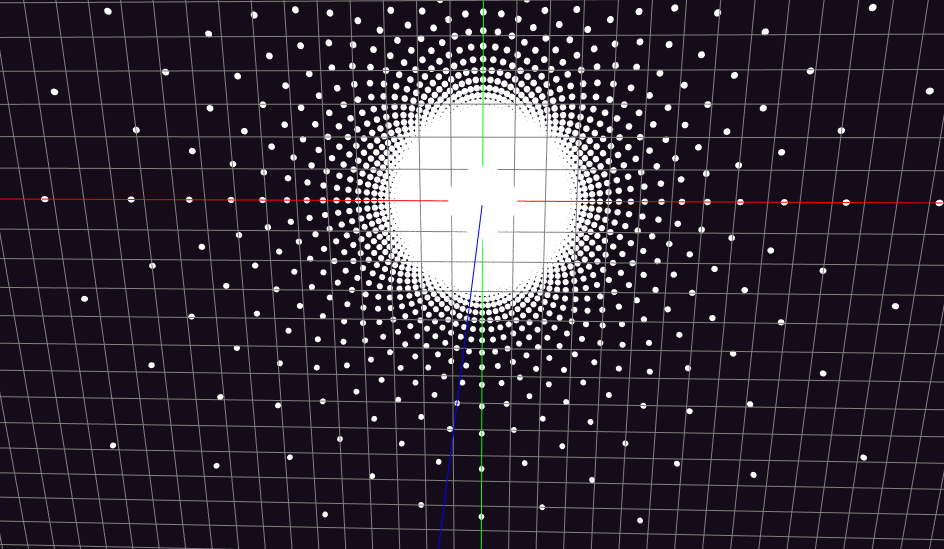
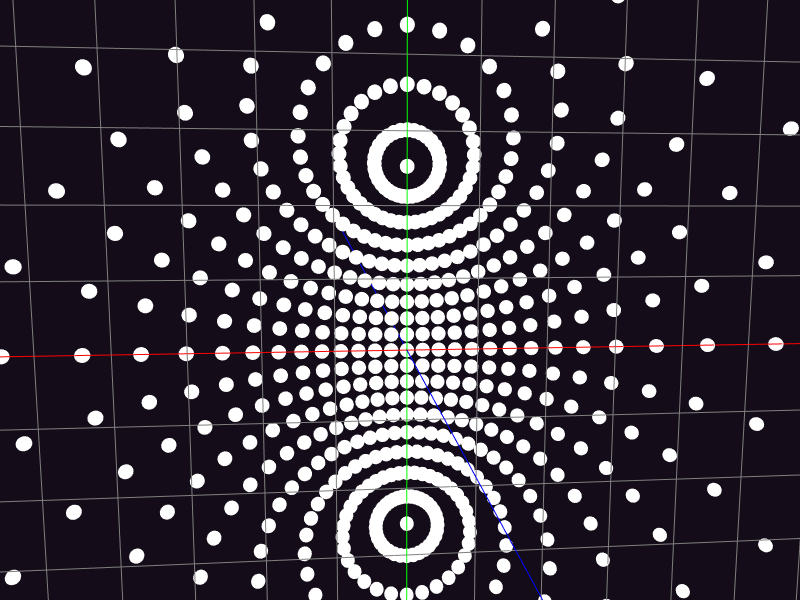
added Track.hpp, for basic change detection

diff --git a/src/World/Components/Transform3DComponent.hpp b/src/World/Components/Transform3DComponent.hpp
@@ -1,6 +1,7 @@
 #pragma once
 
 #include "Core/OuterCore/ECS/Component.hpp"
+#include "Core/OuterCore/Track.hpp"
 #include "Math/Matrix/Matrix4.hpp"
 #include "Math/Quaternion/Quaternion.hpp"
 
@@ -9,43 +10,37 @@ namespace N
 //
 struct Transform3DComponent : Component
 {
-    M::Vector3 Position = M::Vector3::Zero;
-    M::Quaternion Rotation = M::Quaternion::Identity;
-    M::Vector3 Scale = M::Vector3::One;
+    Track<M::Vector3> Position = M::Vector3::Zero;
+    Track<M::Quaternion> Rotation = M::Quaternion::Identity;
+    Track<M::Vector3> Scale = M::Vector3::One;
 
     bool InheritTransform = true;
 
   private:
-    M::Vector3 DirtyPos = M::Vector3::Zero;
-    M::Vector3 DirtyScale = M::Vector3::One;
-    M::Quaternion DirtyRotation = M::Quaternion::Identity;
-    M::Matrix4 DirtyModelMatrix = M::Matrix4::Identity;
-    M::Matrix3 DirtyNormalMatrix = M::Matrix3::Identity;
+    M::Matrix4 DirtyModelMatrix;
+    M::Matrix3 DirtyNormalMatrix;
 
   public:
     [[nodiscard]] M::Matrix4 GetModelMatrix()
     {
-        if (!DirtyPos.NearlyEquals(GlobalPosition) || !DirtyScale.NearlyEquals(GlobalScale) ||
-            !DirtyRotation.NearlyEquals(GlobalRotation))
+        if (GlobalPosition.IsChanged() || GlobalRotation.IsChanged() || GlobalScale.IsChanged())
         {
-            DirtyPos = GlobalPosition;
-            DirtyRotation = GlobalRotation;
-            DirtyScale = GlobalScale;
-
             M::Matrix4 modelMatrix = M::Matrix4::Identity;
             modelMatrix = modelMatrix.Translate({GlobalPosition});
-            modelMatrix *= GlobalRotation.ToMatrix4();
+            modelMatrix *= GlobalRotation().ToMatrix4();
             modelMatrix = modelMatrix.Scale(GlobalScale);
             DirtyModelMatrix = modelMatrix;
-            return DirtyModelMatrix;
+            Position.ClearChanged();
+            Rotation.ClearChanged();
+            Scale.ClearChanged();
         }
+
         return DirtyModelMatrix;
     }
 
     [[nodiscard]] M::Matrix3 GetNormalMatrix()
     {
-        if (!DirtyPos.NearlyEquals(GlobalPosition) || !DirtyScale.NearlyEquals(GlobalScale) ||
-            !DirtyRotation.NearlyEquals(GlobalRotation))
+        if (GlobalPosition.IsChanged() || GlobalRotation.IsChanged() || GlobalScale.IsChanged())
         {
             DirtyNormalMatrix = GetModelMatrix().ToMatrix3().Inverse().Transpose();
             return DirtyNormalMatrix;
@@ -55,24 +50,24 @@ struct Transform3DComponent : Component
 
     [[nodiscard]] M::Vector3 GetRight() const
     {
-        return GlobalRotation.Transform({1, 0, 0});
+        return GlobalRotation().Transform({1, 0, 0});
     }
 
     [[nodiscard]] M::Vector3 GetUp() const
     {
-        return GlobalRotation.Transform({0, 1, 0});
+        return GlobalRotation().Transform({0, 1, 0});
     }
 
     [[nodiscard]] M::Vector3 GetForward() const
     {
-        return GlobalRotation.Transform({0, 0, -1});
+        return GlobalRotation().Transform({0, 0, -1});
     }
 
   private:
     // TODO-this is temporary until i have a proper change detection system (reflection)
-    M::Vector3 GlobalPosition = M::Vector3::Zero;
-    M::Quaternion GlobalRotation = M::Quaternion::Identity;
-    M::Vector3 GlobalScale = M::Vector3::One;
+    Track<M::Vector3> GlobalPosition = M::Vector3::Zero;
+    Track<M::Quaternion> GlobalRotation = M::Quaternion::Identity;
+    Track<M::Vector3> GlobalScale = M::Vector3::One;
     friend struct Transform3DSystem;
     friend struct Renderer;
     friend struct CameraSystem;

diff --git a/src/Core/OuterCore/Track.hpp b/src/Core/OuterCore/Track.hpp
@@ -1,0 +1,140 @@
+#pragma once
+#include "Event.hpp"
+
+namespace N
+{
+
+struct TrackChanged : Event<TrackChanged>
+{
+    TrackChanged() {}
+};
+
+//TODO- events dont work
+template <typename T> struct Track
+{
+    Track() {};
+    Track(const T& value) : Value(value) {}
+    template <typename F> Track(const T& value, F&& callback) : Value(value)
+    {
+        Connect(std::forward<F>(callback));
+    }
+
+    template <typename F> size_t Connect(F&& callback)
+    {
+        const auto id = Event.Sub([callback = std::forward<F>(callback)](TrackChanged&) { callback(); });
+        return id;
+    }
+    void Disconnect(size_t subscription)
+    {
+        Event.Unsub(subscription);
+    }
+
+    const T& Get() const
+    {
+        return Value;
+    }
+
+    T& operator()()
+    {
+        MarkChanged();
+        return Value;
+    }
+
+    const T& operator()() const
+    {
+        return Value;
+    }
+
+    void Set(const T& value)
+    {
+        Value = value;
+        MarkChanged();
+    }
+
+    operator const T&() const
+    {
+        return Value;
+    }
+
+    operator T&()
+    {
+        MarkChanged();
+        return Value;
+    }
+
+    template <typename V> Track& operator+=(const V& value)
+    {
+        operator()() += value;
+        return *this;
+    }
+
+    template <typename V> Track& operator-=(const V& value)
+    {
+        operator()() -= value;
+        return *this;
+    }
+
+    template <typename V> Track& operator*=(const V& value)
+    {
+        operator()() *= value;
+        return *this;
+    }
+
+    template <typename V> Track& operator/=(const V& value)
+    {
+        operator()() /= value;
+        return *this;
+    }
+
+    template <typename V> T operator+(const V& value)
+    {
+        return Value + value;
+    }
+
+    template <typename V> T operator-(const V& value)
+    {
+        return Value - value;
+    }
+
+    template <typename V> T operator*(const V& value)
+    {
+        return Value * value;
+    }
+    template <typename V> T operator/(const V& value)
+    {
+        return Value / value;
+    }
+
+    Track& operator=(const T& value)
+    {
+        Set(value);
+        return *this;
+    }
+
+    bool IsChanged() const
+    {
+        return Changed;
+    }
+
+    void ClearChanged()
+    {
+        Changed = false;
+    }
+
+    void MarkChanged()
+    {
+        if (Changed)
+        {
+            return;
+        }
+        Changed = true;
+        Event.Fire();
+    }
+
+  private:
+    T Value{};
+    bool Changed = false;
+    TrackChanged Event{};
+};
+
+} // namespace N

diff --git a/src/World/Systems/Transform3DSystem.cpp b/src/World/Systems/Transform3DSystem.cpp
@@ -9,6 +9,7 @@ namespace N
 void Transform3DSystem::Update(double fdt)
 {
     auto& query = World::Get().Query;
+    auto& transformPool = query.Pool<Transform3DComponent>();
     for (auto [entityId, transform] : query.With<Transform3DComponent>())
     {
         auto& entity = World::Get().FindEntity(entityId);
@@ -16,9 +17,9 @@ void Transform3DSystem::Update(double fdt)
         if (entity.HasParent() && transform.InheritTransform)
         {
             auto& parent = entity.GetParent();
-            if (query.Pool<Transform3DComponent>().HasId(parent.Id))
+            if (transformPool.HasId(parent.Id))
             {
-                auto& parentTransform = query.Pool<Transform3DComponent>().GetComponentById(parent.Id);
+                auto& parentTransform = transformPool.GetComponentById(parent.Id);
 
                 transform.GlobalPosition = parentTransform.GlobalPosition + transform.Position;
                 transform.GlobalRotation = parentTransform.GlobalRotation * transform.Rotation;
@@ -26,6 +27,7 @@ void Transform3DSystem::Update(double fdt)
                 continue;
             }
         }
+
         transform.GlobalPosition = transform.Position;
         transform.GlobalRotation = transform.Rotation;
         transform.GlobalScale = transform.Scale;

diff --git a/src/World/experiments/calculus.cpp b/src/World/experiments/calculus.cpp
@@ -51,9 +51,9 @@ static Entity& Plot(const M::Vector3 vec3, const M::Vector4 col = {1, 1, 1, 1})
 {
     auto& point = CreatePoint(col);
     auto& transform = World::Get().Query.Pool<Transform3DComponent>().GetComponentById(point.Id);
-    transform.Position.x = vec3.x;
-    transform.Position.y = vec3.y;
-    transform.Position.z = vec3.z;
+    transform.Position().x = vec3.x;
+    transform.Position().y = vec3.y;
+    transform.Position().z = vec3.z;
 
     return point;
 }
@@ -64,7 +64,7 @@ static float x = -10;
 
 void calculus::Start()
 {
-    ThreeDimensionalProjection(2);
+    ThreeDimensionalProjection(10);
 }
 
 static float multiplier = 1;
@@ -137,11 +137,9 @@ void calculus::ThreeDimensionalProjection(int increase)
         for (int phi = -180; phi < 180; phi += increase)
         {
             M::Vector3 v3 = M::Vector3::FromSpherical(M::Spherical(M::Rad(theta), M::Rad(phi)));
-            auto& d3point = Plot(v3);
             M::Vector2 proj = v3.StereoProject();
             auto& point = Plot({proj.x, proj.y, 0});
             points.emplace_back(&point);
-            // points.emplace_back(&d3point);
         }
     }
 }

diff --git a/src/Core/OuterCore/Event.hpp b/src/Core/OuterCore/Event.hpp
@@ -1,4 +1,5 @@
 #pragma once
+#include "Utilities/Logger.hpp"
 
 namespace N
 {
@@ -17,6 +18,8 @@ template <typename T> struct Event : IEvent
     /** @brief Dispatches the event to all registered listeners. */
     void Fire()
     {
+        U::Logger::Info("Event listeners: " + std::to_string(Listeners.size()));
+
         for (const auto& listener : Listeners)
         {
             listener.Callback(static_cast<T&>(*this));
@@ -24,12 +27,13 @@ template <typename T> struct Event : IEvent
     }
 
     /** @brief Registers a listener and returns its unique subscription ID. */
-    template <typename F> requires std::invocable<F, const T&>
+    template <typename F> requires std::invocable<F, T&>
     std::size_t Sub(F&& callback)
     {
         const auto subscription = ++NextSubscription;
-        auto method = [callback = std::forward<F>(callback)](T& e) mutable { callback(e); };
-        Listeners.push_back({.Subscription = subscription, .Callback = method});
+
+        Listeners.push_back({.Subscription = subscription, .Callback = std::forward<F>(callback)});
+
         return subscription;
     }
 

diff --git a/src/Core/OuterCore/ECS/ComponentPoolQuery.hpp b/src/Core/OuterCore/ECS/ComponentPoolQuery.hpp
@@ -171,7 +171,6 @@ struct ComponentPoolQuery
             auto& pool = std::get<0>(pools);
 
             result.Clear();
-            result.Reserve(pool.Size());
             PopulateResult(result, pools);
             result.Version = QueryVersion;
         }
@@ -249,6 +248,7 @@ struct ComponentPoolQuery
     void PopulateResult(QueryResult<Args...>& result, std::tuple<ComponentPool<Args>&...>& pools)
     {
         auto& driverPool = GetSmallestPool(pools);
+        result.Reserve(driverPool.Size());
 
         for (size_t i = 0; i < driverPool.Size(); ++i)
         {

diff --git a/src/Modules/Physics/Physics.cpp b/src/Modules/Physics/Physics.cpp
@@ -46,9 +46,10 @@ static void Plot(const M::Vector3 vec3, const M::Vector4 col = {1, 1, 1, 1})
     {
         auto& point = CreatePoint(col);
         auto& transform = World::Get().Query.Pool<Transform3DComponent>().GetComponentById(point.Id);
-        transform.Position.x = vec3.x;
-        transform.Position.y = vec3.y;
-        transform.Position.z = vec3.z;
+        transform.Position().x = vec3.x;
+        transform.Position().y = vec3.y;
+        transform.Position().z = vec3.z;
+        transform.Position -= 2;
     }
 }
 
